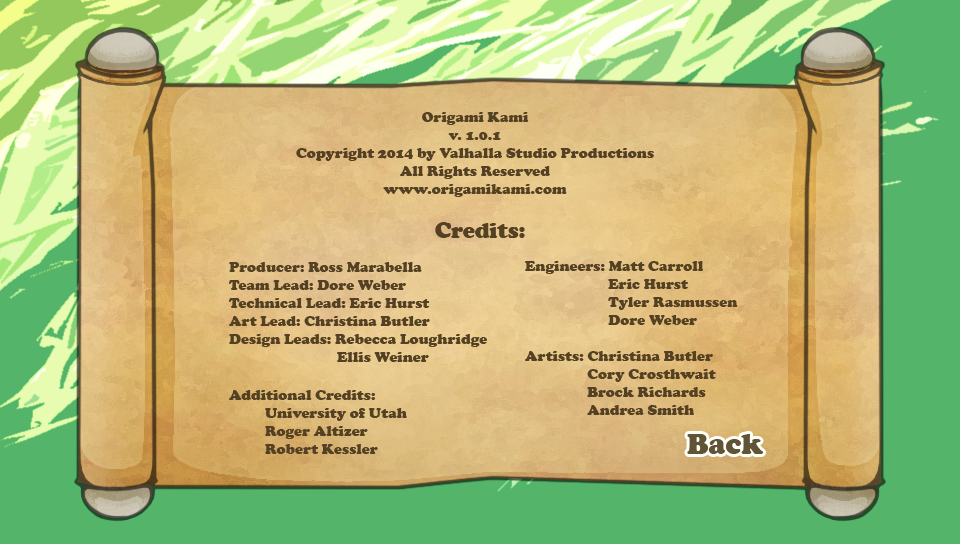
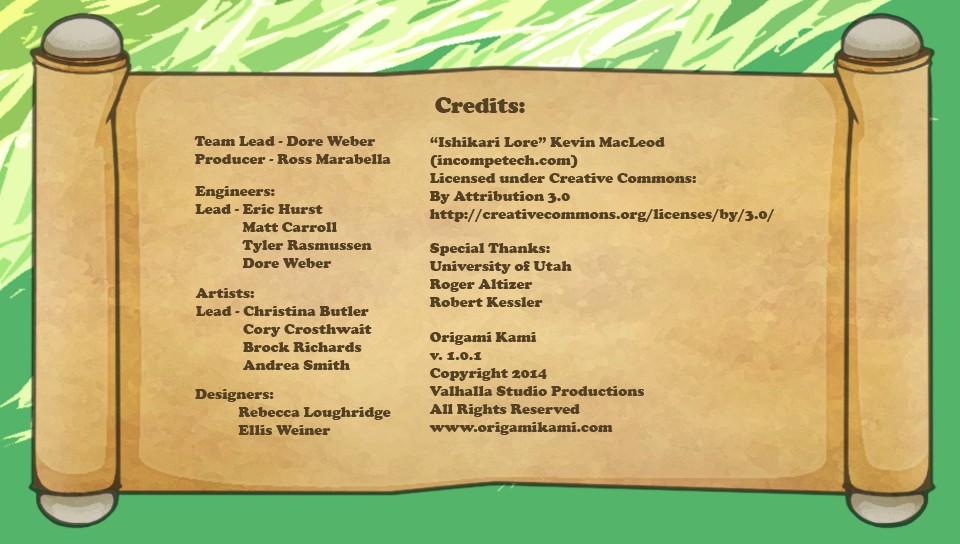
credits modified, back button arrow added

diff --git a/Main/Menus/Credits.composer.cs b/Main/Menus/Credits.composer.cs
@@ -42,8 +42,7 @@ namespace Menu
             ImageBox_1.Image = new ImageAsset("/Application/assets/credits.png");
 
             // continueButton
-            continueButton.TextColor = new UIColor(0f / 255f, 0f / 255f, 0f / 255f, 255f / 255f);
-            continueButton.TextFont = new UIFont(FontAlias.System, 25, FontStyle.Regular);
+            continueButton.IconImage = new ImageAsset("/Application/assets/back214.png");
             continueButton.Style = ButtonStyle.Custom;
             continueButton.CustomImage = new CustomButtonImageSettings()
             {
@@ -98,7 +97,7 @@ namespace Menu
                     ImageBox_1.Anchors = Anchors.None;
                     ImageBox_1.Visible = true;
 
-                    continueButton.SetPosition(641, 415);
+                    continueButton.SetPosition(653, 412);
                     continueButton.SetSize(155, 56);
                     continueButton.Anchors = Anchors.None;
                     continueButton.Visible = true;
